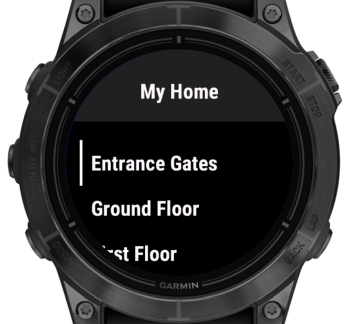
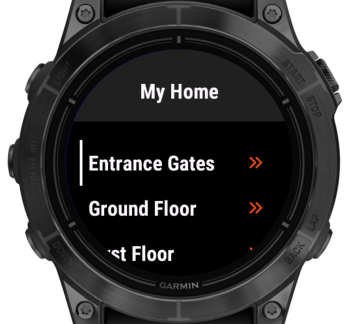
Documented support for nested elements (#104)

diff --git a/docs/index.md b/docs/index.md
@@ -175,30 +175,47 @@ The following element types are currently supported:
 
 - [`Frame`](https://www.openhab.org/docs/ui/sitemaps.html#element-type-frame)
 
+- [`Text`](https://www.openhab.org/docs/ui/sitemaps.html#element-type-text)
+
+- [`Group`](https://www.openhab.org/docs/ui/sitemaps.html#element-type-group)
+
 - [`Switch`](https://www.openhab.org/docs/ui/sitemaps.html#element-type-switch)
 
 - [`Slider`](https://www.openhab.org/docs/ui/sitemaps.html#element-type-slider)
 
-- [`Text`](https://www.openhab.org/docs/ui/sitemaps.html#element-type-text)
-
 The following sections describe the supported parameters and the Sitemap Widget associated with each of these elements.
+
+Here’s a revised and more concise version of your section with improved flow, grammar, and clarity:
+
+#### Nested Elements
+
+Nested elements are fully supported.
+
+Certain sitemap elements — namely `Frame`, `Text`, and `Group` — can contain nested elements to help structure your sitemap hierarchically.
+
+In openHAB, `Frame` elements are used to visually separate areas on a page, while nested elements under `Text` and `Group` are presented as navigable subpages. The Garmin app adopts a menu-based navigation structure and implements nested elements under all three types as submenus.
+
+* For `Frame` and `Text`, nested elements must be defined manually. The only functional difference is that `Text` displays the associated item’s state, whereas `Frame` does not.
+* `Group` elements automatically populate their nested elements based on the members of the referenced group item.
+
+For more details, refer to the [openHAB documentation on nested elements](https://www.openhab.org/docs/ui/sitemaps.html#nested-elements).
 
 ---
 
 ### `Frame`
 
-The [`Frame`](https://www.openhab.org/docs/ui/sitemaps.html#element-type-frame) element is used to group other elements, helping to organize your Sitemap Widgets into a hierarchical structure.
+The [`Frame`](https://www.openhab.org/docs/ui/sitemaps.html#element-type-frame) element is [one of three](#nested-elements) sitemap elements that support hierarchical structuring.
 
-The app presents the sitemap using a menu-based structure. The root of the sitemap corresponds to the app’s **home screen**. Each `Frame` is represented as its own **menu**, and `Frame` elements can be **nested** within other `Frames` to create submenus.
+You can nest `Frame` elements within other `Frame` elements. While this is allowed by the specification, openHAB may log a warning when doing so — but it still functions as expected.
 
-**Important:** The home screen and each `Frame` may contain either only `Frame` elements (i.e., submenus) or only non-`Frame` elements (`Switch`, `Slider`, `Text`, etc.). Mixing both types within the same `Frame` is not supported.
+Technically, the specification does *not* permit mixing `Frame` elements alongside other element types at the same hierarchy level. However, in practice, this does work in openHAB. If you choose to use this unsupported approach, be aware that you're doing so at your own risk.
 
 Here is an example of a sitemap containing three `Frame` elements.
 
 ```openhab
 sitemap garmin_demo label="My Home" {
 	Frame label="Entrance Gates" {
-		Switch item=EntranceGatesTrigger label="Open/Close" mappings=[OFF="GO", ON="DONE"]
+		Switch item=EntranceGatesTrigger label="Open/Close" mappings=[OFF="", ON="OK"]
 		Text item=EntranceGateStatus label="Status"
 	}
 	Frame label="Ground Floor" {
@@ -215,7 +232,70 @@ This configuration produces the following display in the UI:
 <table class="screenshot-table">
   <tr>
     <td width="50%"><img src="screenshots/app/2-homepage.png"></td>
-    <td><img src="screenshots/app/8-text.png"></td>
+    <td><img src="screenshots/app/3-entrance-gates.png"></td>
+  </tr>
+</table>
+
+---
+
+### `Text`
+
+The [`Text`](https://www.openhab.org/docs/ui/sitemaps.html#element-type-text) Sitemap Widget is used to display the current state of an item without allowing any user interaction.
+
+**Supported parameters:**
+
+* `label`: the label shown in the UI.
+* `item`: the name of the openHAB item whose state should be displayed.
+
+This widget is ideal for showing read-only information, such as temperature, system status, or sensor readings. It also supports [nested elements](#nested-elements), making it suitable for creating a hierarchical sitemap structure.
+
+**Example configuration:**
+
+In this example, the `Text` Sitemap Widget is used to display the status of entrance gates. Triggering the gates is handled by a separate `Switch` element.
+
+```openhab
+Frame label="Entrance Gates" {
+  Switch item=EntranceGatesTrigger label="Open/Close" mappings=[OFF="GO", ON="DONE"]
+  Text item=EntranceGateStatus label="Status"
+}
+```
+
+**Resulting UI:**
+
+<table class="screenshot-table">
+  <tr>
+    <td width="50%"><img src="screenshots/app/3-entrance-gates.png"></td>
+    <td></td>
+  </tr>
+</table>
+
+---
+
+### `Group`
+
+The [`Group`](https://www.openhab.org/docs/ui/sitemaps.html#element-type-group) Sitemap Widget will present a submenu containing all the items in the associated item of type `Group`. This also works recursively, if the `Group` item itself contains other `Group` items, those will again open their own submenus.
+
+**Example configuration:**
+
+In this example, the `Text` Sitemap Widget is used to display the status of entrance gates. Triggering the gates is handled by a separate `Switch` element.
+
+```openhab
+sitemap garmin_demo label="My Home" {
+	Group item=CC_House_Lights label="All Lights"
+  // ...
+}
+```
+
+**Resulting UI:**
+
+<table class="screenshot-table">
+  <tr>
+    <td width="50%"><img src="screenshots/app/8-group-1.png"></td>
+    <td><img src="screenshots/app/8-group-2.png"></td>
+  </tr>
+  <tr>
+    <td width="50%"><img src="screenshots/app/8-group-3.png"></td>
+    <td></td>
   </tr>
 </table>
 
@@ -361,39 +441,6 @@ Note: Even button-based devices may support touch input, and on those, the UI re
 
 * **With `releaseOnly`:** The value is only sent when the dialog is confirmed. Cancelling leaves the value unchanged.
 * **Without `releaseOnly`:** Values are sent immediately as the slider is moved. Confirming keeps the current value; cancelling reverts to the value before the dialog was opened.
-
----
-
-### `Text`
-
-The [`Text`](https://www.openhab.org/docs/ui/sitemaps.html#element-type-text) Sitemap Widget is used to display the current state of an item without allowing any user interaction.
-
-**Supported parameters:**
-
-* `label`: the label shown in the UI.
-* `item`: the name of the openHAB item whose state should be displayed.
-
-This widget is ideal for showing read-only information, such as temperature, system status, or sensor readings.
-
-**Example configuration:**
-
-In this example, the `Text` Sitemap Widget is used to display the status of entrance gates. Triggering the gates is handled by a separate `Switch` element.
-
-```openhab
-Frame label="Entrance Gates" {
-  Switch item=EntranceGatesTrigger label="Open/Close" mappings=[OFF="GO", ON="DONE"]
-  Text item=EntranceGateStatus label="Status"
-}
-```
-
-**Resulting UI:**
-
-<table class="screenshot-table">
-  <tr>
-    <td width="50%"><img src="screenshots/app/8-text.png"></td>
-    <td></td>
-  </tr>
-</table>
 
 ---
 
